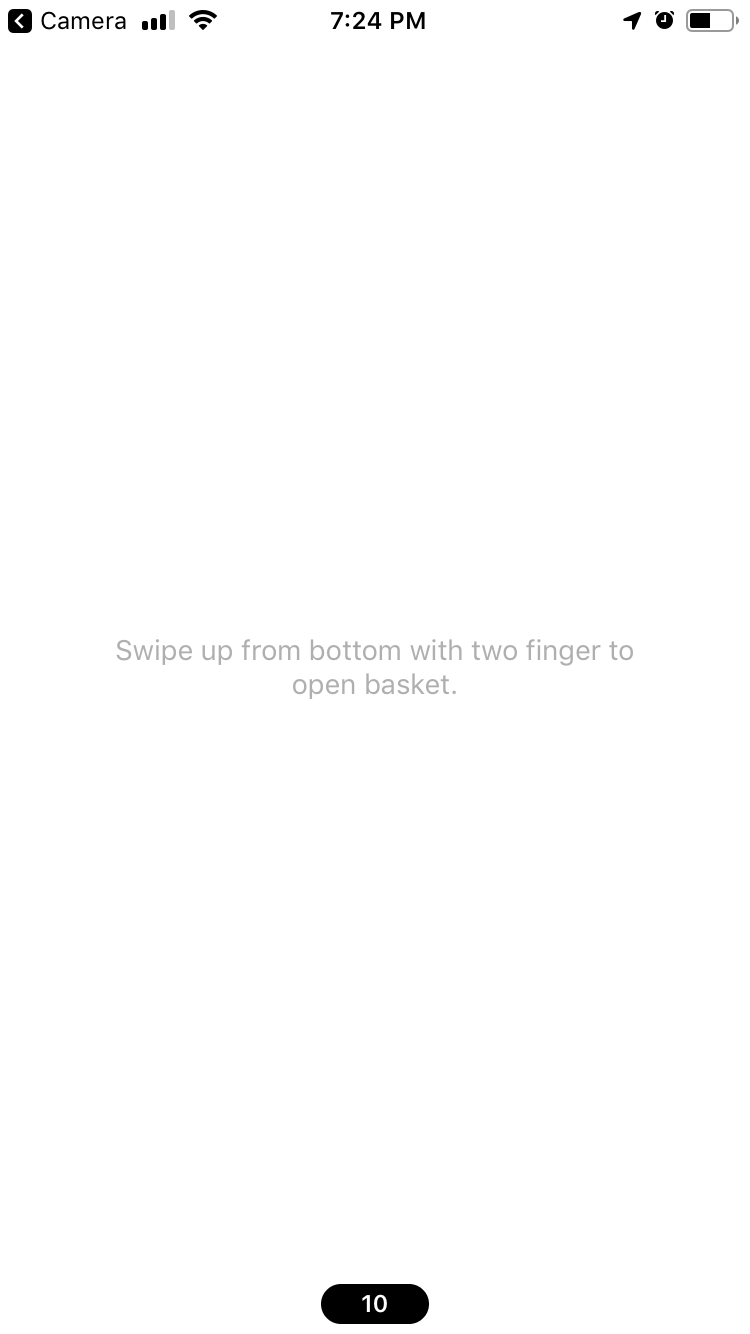
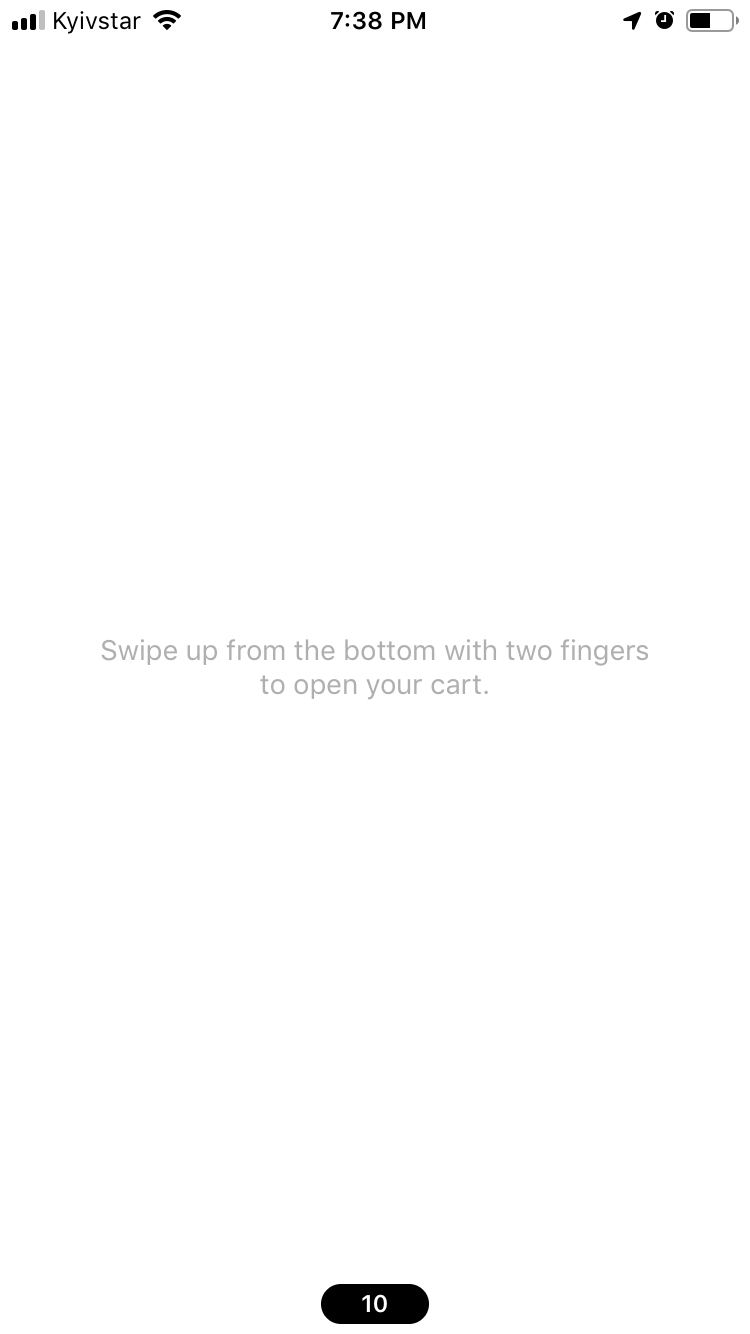
Preview updated.

Changed region(s): [[0.1533, 0.461, 0.8587, 0.5225], [0.0, 0.0, 0.276, 0.0307], [0.46, 0.0, 0.552, 0.0307]]

diff --git a/App.tsx b/App.tsx
@@ -68,18 +68,9 @@ export default class App extends Component {
         onHandlerStateChange={this.handleStateChange}
         minPointers={2}>
         <View style={styles.container}>
-          <View style={{
-            flex: 1,
-            justifyContent: 'center',
-            alignItems: 'center'
-          }}>
-            <Text style={{
-              fontSize: 14,
-              color: '#AFAFAF',
-              marginHorizontal: 50,
-              textAlign: 'center'
-            }}>
-              Swipe up from bottom with two finger to open basket.
+          <View style={styles.messageContainer}>
+            <Text style={styles.messageText}>
+              Swipe up from the bottom with two fingers to open your cart.
             </Text>
           </View>
 
@@ -135,6 +126,17 @@ export default class App extends Component {
 const styles = StyleSheet.create({
   container: {
     flex: 1,
+  },
+  messageContainer: {
+    flex: 1,
+    justifyContent: 'center',
+    alignItems: 'center'
+  },
+  messageText: {
+    fontSize: 14,
+    color: '#AFAFAF',
+    marginHorizontal: 50,
+    textAlign: 'center'
   },
   barContainer: {
     position: 'absolute',

diff --git a/README.md b/README.md
@@ -1,6 +1,8 @@
 # Bottom Cart Example
 This example shows how to implement bottom sheet cart with order items based on [Expo](https://expo.io).
 
+## Expo
+Also you can observe example on Snack
 [Expo Snack](https://snack.expo.io/@melnyk/disrespectful-bananas)
 
 Preview Collapsed | Preview Expanded
